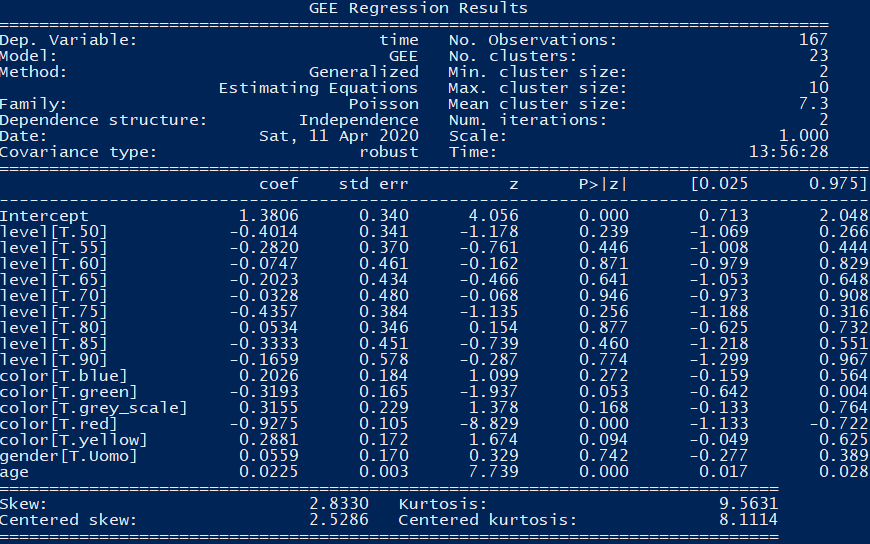
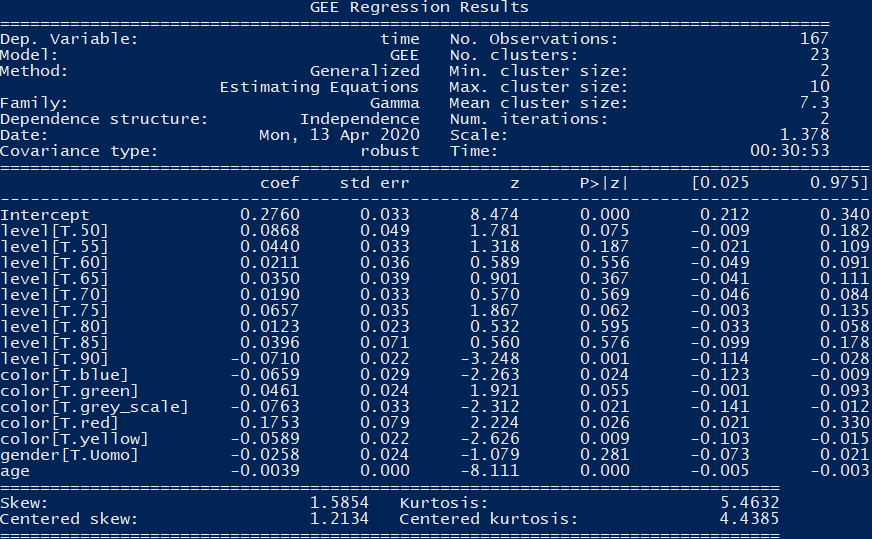
Changed Poisson distribution into Gamma due to a mistake

Changed region(s): [[0.0, 0.0, 1.0, 1.0]]

diff --git a/analysis/multisensory_analisis.py b/analysis/multisensory_analisis.py
@@ -6,7 +6,7 @@ import pymysql.cursors
 import matplotlib.pyplot as plot
 
 # Statistics libraries
-from statsmodels.genmod.families import Poisson
+from statsmodels.genmod.families import Gamma
 from scipy.stats import iqr
 from statistics import median
 from statsmodels.genmod.generalized_estimating_equations import GEE
@@ -138,8 +138,8 @@ def glm():
     # print a brief summary of the dataframe
     print(dataframe.head())
 
-    # Poisson distributed data is intrinsically integer-valued, since we have to count data.
-    fam = Poisson()
+    # Gamma distributed data is intrinsically real and positive, since we have to count times.
+    fam = Gamma()
     # No correlation between the observations
     ind = Independence()
 
